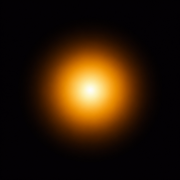
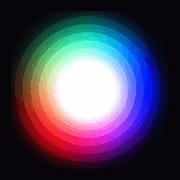
Let the gate show the real mark, and let it breathe
The every-colour face on the gate was a conic built to look like the
brand's light. It is now the brand's light: public/orb-prism.png, above
an orb that keeps its white soul and the hue it is about to become.

The artwork was authored on black, and the picker's angles are the
picker - so scripts/orb-prism.mjs does the two things that cannot be
recovered from a PNG afterwards. It turns the spectrum 94deg, because
the artwork's own hues sat that far off the VIBES angles and the light
you touched was not the light you took: Aqua's angle pointed at red,
Amber's at magenta. And it carries the black as alpha rather than as
pixels, since the hit box is a stacking context and would have isolated
a screen blend away.

The mark breathes on brightness alone. Not scale - the torch leaves
from the rim, and a rim that swells opens the junction the beam is
welded to; a larger copy fading over the original also landed every
hard-edged ring beside its twin. Not opacity either, which cannot touch
a white heart that is already solid.

The icons come off the same source and the same rotation, so they can
never drift from it. That costs the SVG favicon: this mark is artwork,
not a gradient an SVG could redraw.

diff --git a/src/components/landing/v3/prism-gate.css b/src/components/landing/v3/prism-gate.css
@@ -206,6 +206,80 @@
      be running as the orb left. */
   --orb-fade: 0.55s;
 }
+/* ── the mark ─────────────────────────────────────────────────
+   The every-colour face is the brand's own artwork, not a conic built to
+   resemble it: public/orb-prism.png, spanning the whole hit box - which
+   is the orb's CORONA (400 units), the same field the AppOrb underneath
+   draws into, so the two share a centre and a size.
+
+   It was authored as light on black. The black is carried as alpha in
+   the asset rather than as pixels, so it composites normally; a screen
+   blend would have been the other answer, and the hit box's own stacking
+   context would have isolated it away.
+
+   The orb below keeps its white soul and its chosen hue, and gives up
+   its conic prism layers - this IS the spectrum now, and two of them
+   would double every hue. */
+.pl-gate__orb .app-orb__prism {
+  display: none;
+}
+.pl-gate__logo {
+  position: absolute;
+  inset: 0;
+  z-index: 1;
+  background: url("/orb-prism.png") center / 100% 100% no-repeat;
+  pointer-events: none;
+  /* The colour resolves over the same beat the app orb's cross-fade
+     takes - see --orb-fade below. */
+  transition: opacity 0.55s cubic-bezier(0.4, 0, 0.2, 1);
+}
+/* ── the breath ───────────────────────────────────────────────
+   A light that never moves reads as a picture of a light. This is the
+   orb's own 5.2s breath (see app-orb-breath), borrowed so the gate keeps
+   the brand's rhythm rather than inventing a second one.
+
+   What breathes is the BRIGHTNESS, and only that. The gate holds its orb
+   still for a reason - the torch leaves from the rim, and a rim that
+   swells and shrinks opens and closes the junction the beam is welded
+   to. Nothing here moves or scales, so that junction stays welded and
+   the mark's own bands stay exactly where they were drawn: this was
+   first tried as a slightly larger copy of the artwork fading in and
+   out over the original, and every hard-edged ring in it landed just
+   beside its twin - one breath, twice the rings.
+
+   `filter` rather than `opacity`, because opacity cannot touch the
+   white heart (it is already solid, and laying the mark over itself
+   changes nothing where alpha is 1) - the pulse would have shown in the
+   glow and skipped the part of the light you actually look at.
+
+   It rides the same animation shorthand as the arrival bloom but a
+   different property, so the two cannot fight, and neither disturbs the
+   opacity the resolve transitions. */
+.pl-gate__logo {
+  animation:
+    pl-gate-bloom 0.9s cubic-bezier(0.4, 0, 0.2, 1) 1.15s backwards,
+    pl-gate-breath 5.2s ease-in-out infinite;
+}
+@keyframes pl-gate-breath {
+  0%,
+  100% {
+    filter: brightness(0.84);
+  }
+  50% {
+    filter: brightness(1.14);
+  }
+}
+
+/* Beat one of the handover, and the track's first touch: every colour
+   gives way to the one that was chosen, which the orb beneath is already
+   wearing. */
+.pl-gate[data-orb="solid"] .pl-gate__logo {
+  opacity: 0;
+  /* Nothing left to look at, and the handover is the busiest moment this
+     screen has - stop repainting a mark that is on its way out. */
+  animation-play-state: paused;
+}
+
 /* AppOrb scales its 200px stage by size/200 inline; override so the
    CORONA (400 units, the orb's true visual extent) spans exactly the hit
    box. scale(--s) - NOT --s * 2, which drew the orb at twice the box and
@@ -419,12 +493,16 @@
     transform: none;
   }
 }
+/* The second beat of the arrival: the soul lands white, and only then
+   does the colour come up inside it. It used to ramp the orb's own
+   --prism-a; the spectrum is the artwork above the orb now, so the same
+   curve at the same delay rides its opacity instead. */
 @keyframes pl-gate-bloom {
   from {
-    --prism-a: 0;
+    opacity: 0;
   }
   to {
-    --prism-a: 1;
+    opacity: 1;
   }
 }
 @keyframes pl-gate-words {
@@ -438,15 +516,15 @@
   }
 }
 
-/* One declaration, two animations - the soul, then the colour held back
-   until the soul has arrived. These were two rules, and because the
-   gate's orb IS the .app-orb, `.pl-gate .app-orb` (0,2,0) silently beat
-   `.pl-gate__orb` (0,1,0) and `animation` is a shorthand: the soul's
-   fade-in was reset away and never ran once. */
+/* The soul arriving white. The colour that follows it belongs to the
+   mark above, and rides the shorthand up beside the breath.
+
+   Beware the specificity here: the gate's orb IS the .app-orb, so
+   `.pl-gate .app-orb` (0,2,0) beats `.pl-gate__orb` (0,1,0), and
+   `animation` is a shorthand - any such rule silently resets the
+   fade-in below to none. */
 .pl-gate__orb {
-  animation:
-    pl-gate-soul 1.1s cubic-bezier(0.16, 1, 0.3, 1) backwards,
-    pl-gate-bloom 0.9s cubic-bezier(0.4, 0, 0.2, 1) 1.15s backwards;
+  animation: pl-gate-soul 1.1s cubic-bezier(0.16, 1, 0.3, 1) backwards;
 }
 
 .pl-gate__creed,
@@ -470,6 +548,7 @@
 
 @media (prefers-reduced-motion: reduce) {
   .pl-gate__orb,
+  .pl-gate__logo,
   .pl-gate__creed,
   .pl-gate__lead,
   .pl-gate__label,
@@ -514,6 +593,7 @@
    .pl-gate__orb too, and killing every animation on a replay would kill
    that one along with the arrival it was aimed at. */
 .pl-gate[data-replay="1"]:not([data-taken="1"]) .pl-gate__orb,
+.pl-gate[data-replay="1"]:not([data-taken="1"]) .pl-gate__logo,
 .pl-gate[data-replay="1"]:not([data-taken="1"]) .app-orb,
 .pl-gate[data-replay="1"] .pl-gate__creed,
 .pl-gate[data-replay="1"] .pl-gate__lead,

diff --git a/src/components/landing/v3/PrismGate.tsx b/src/components/landing/v3/PrismGate.tsx
@@ -642,6 +642,17 @@ export function PrismGate({
    */
   const shown = taken ?? (active === null ? null : VIBES[active]);
 
+  /**
+   * Whether the orb is still holding every colour, or has resolved into
+   * the one being taken.
+   *
+   * Hoisted out of the JSX because the root needs it as well: the prism
+   * face is artwork now (see .pl-gate__logo in prism-gate.css) and it
+   * sits outside the AppOrb, so it cannot read the orb's own --prism-a.
+   * One expression, two readers - they cannot disagree.
+   */
+  const orbMode = taken !== null || (mode === "track" && engaged) ? "solid" : "prism";
+
   /** The one control the keyboard drives. It moves with the mechanic. */
   const slider = {
     tabIndex: 0,
@@ -661,6 +672,7 @@ export function PrismGate({
       data-mode={mode}
       data-trying={onMode ? "1" : "0"}
       data-picking={live && shown ? "1" : "0"}
+      data-orb={orbMode}
       data-taken={taken ? "1" : "0"}
       data-replay={replay ? "1" : "0"}
       data-closing={closing ? "1" : "0"}
@@ -725,10 +737,17 @@ export function PrismGate({
              the feedback, so it stops holding every colour and starts
              wearing the one being chosen. A cursor keeps the spectrum,
              because it has a beam to answer with instead. */
-          mode={taken !== null || (mode === "track" && engaged) ? "solid" : "prism"}
+          mode={orbMode}
           ramp={shown?.ramp}
           className="pl-gate__orb"
         />
+        {/* The mark itself, over the orb's white soul. The spectrum on
+            this screen is the brand's own artwork rather than a conic
+            built to look like it - so the orb below keeps the white
+            heart and the chosen hue, and hands the every-colour state
+            up here. It fades out as the choice resolves, uncovering the
+            single light the orb underneath has already become. */}
+        <div className="pl-gate__logo" aria-hidden />
         {/* The wheel's fixed mark: just off the rim at twelve o'clock,
             inside the beam that leaves from under it, and the only part
             of that mechanic which never moves. */}

diff --git a/src/routes/__root.tsx b/src/routes/__root.tsx
@@ -93,7 +93,15 @@ export const Route = createRootRouteWithContext<{ queryClient: QueryClient }>()(
         rel: "stylesheet",
         href: appCss,
       },
-      { rel: "icon", type: "image/svg+xml", href: "/favicon.svg" },
+      // The mark is artwork, not a gradient an SVG could redraw - see
+      // scripts/orb-prism.mjs, which cuts these from the same source and
+      // the same rotation as the orb on the gate. Raster, therefore, and
+      // one file per size: at 16px a browser's own downscale turns the
+      // spectrum to mud, so each is resampled from the full-resolution
+      // original instead.
+      { rel: "icon", type: "image/png", sizes: "32x32", href: "/favicon-32.png" },
+      { rel: "icon", type: "image/png", sizes: "16x16", href: "/favicon-16.png" },
+      { rel: "icon", type: "image/png", sizes: "180x180", href: "/favicon-180.png" },
       { rel: "apple-touch-icon", href: "/apple-touch-icon.png" },
       { rel: "preconnect", href: "https://fonts.googleapis.com" },
       { rel: "preconnect", href: "https://fonts.gstatic.com", crossOrigin: "anonymous" },
